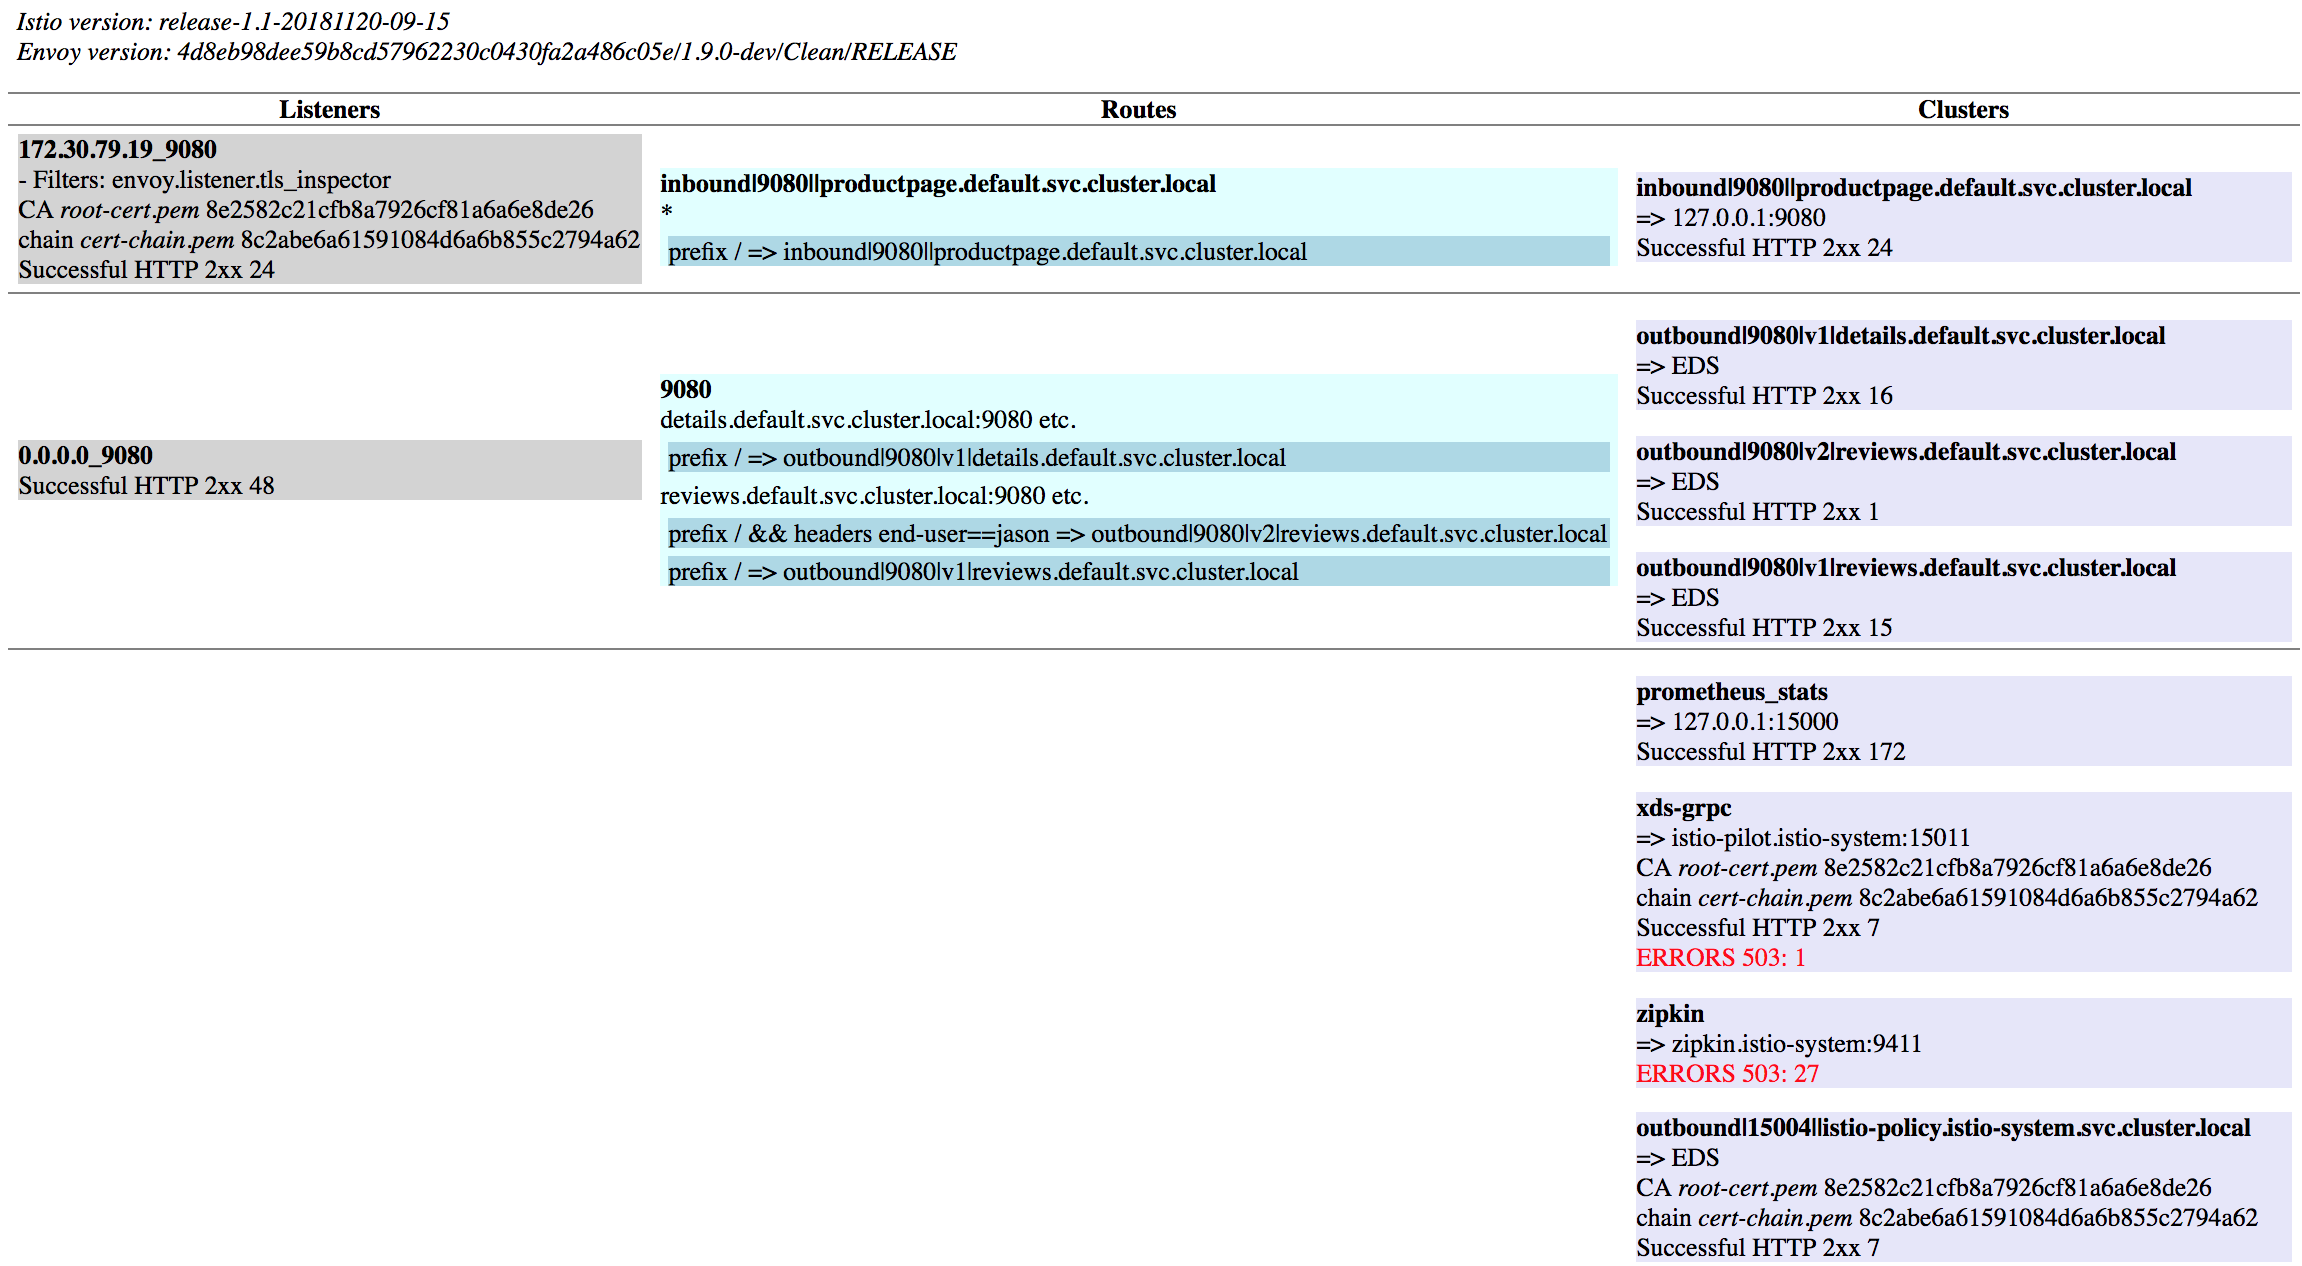
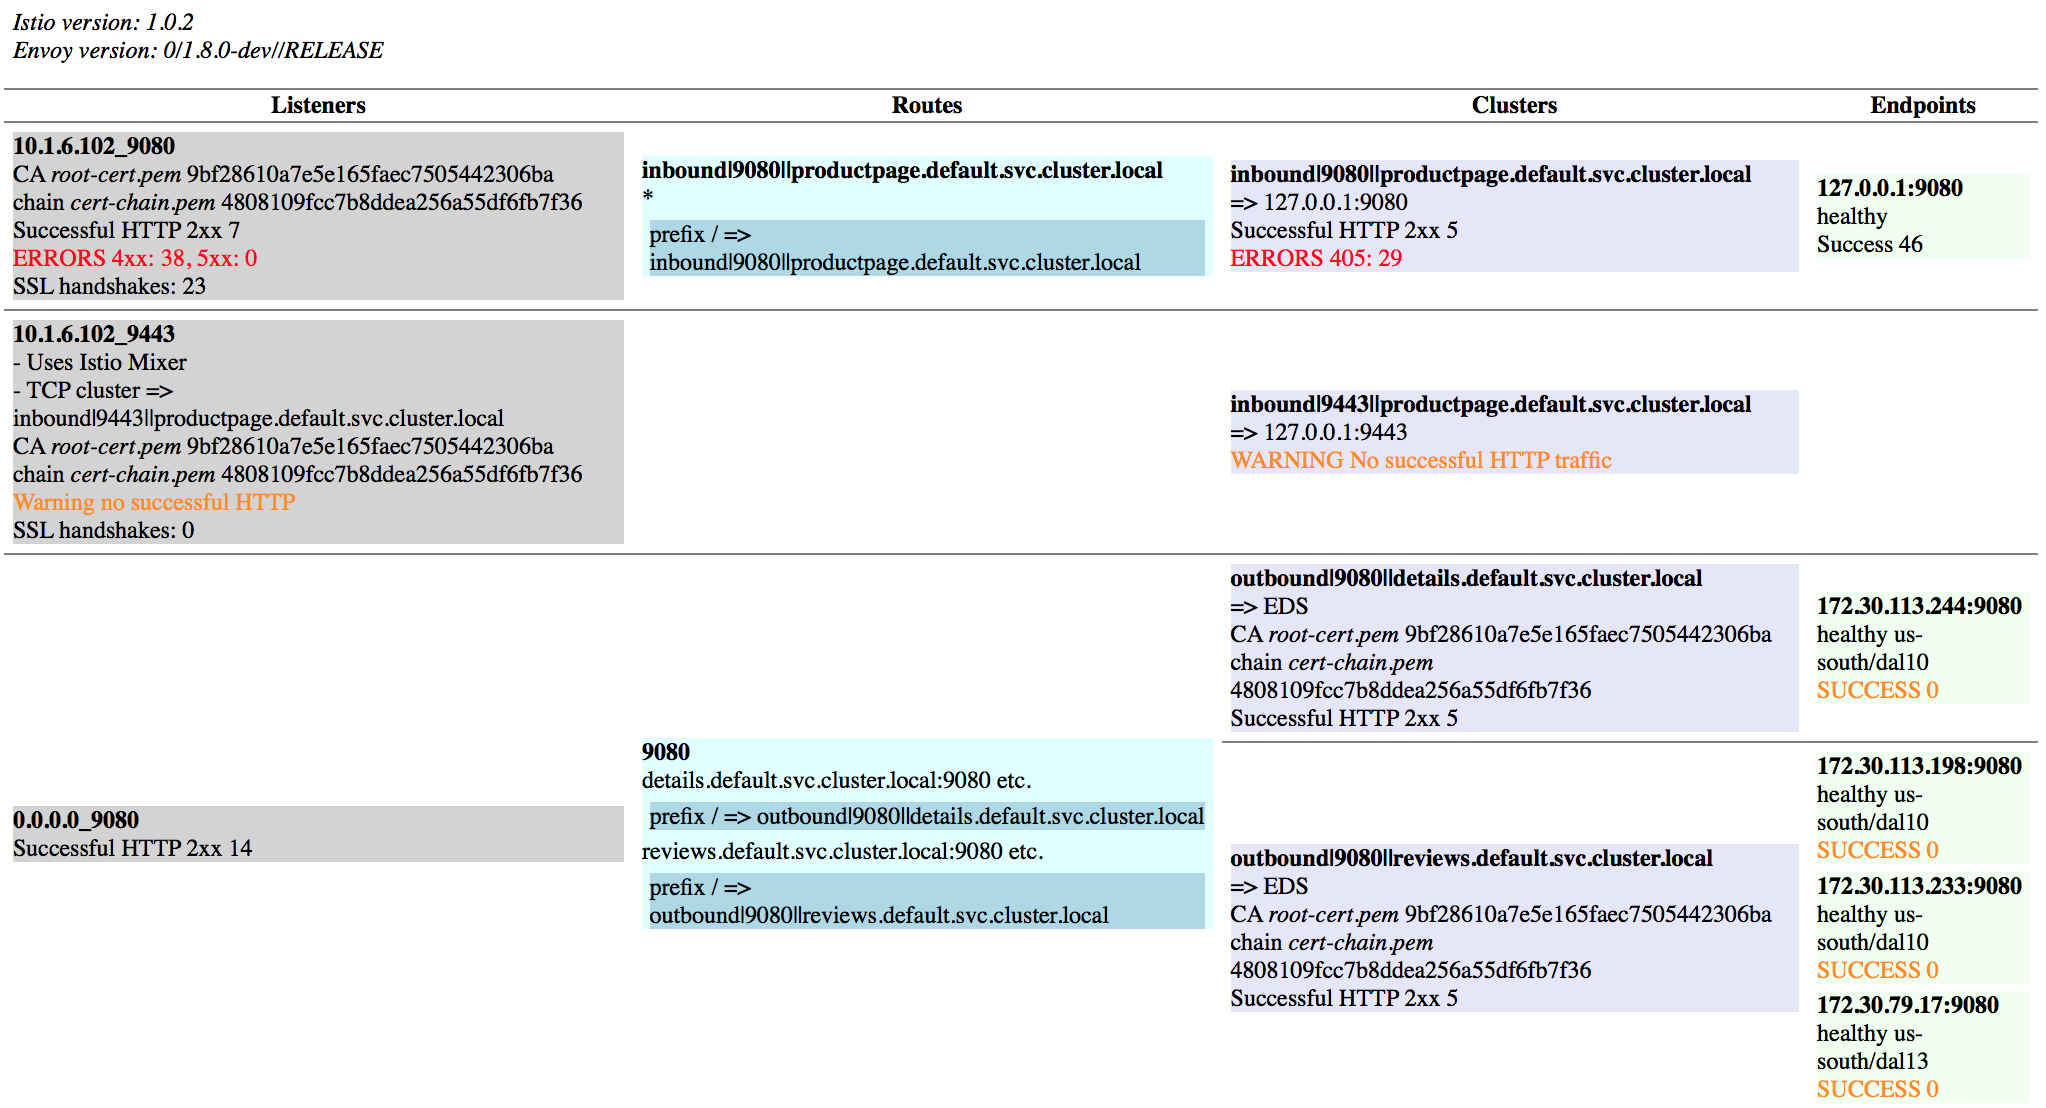
tree-like table formatting

diff --git a/genhtml.js b/genhtml.js
@@ -244,7 +244,8 @@ function clusterHasTraffic(cluster, stats, outMsgs) {
 		|| clusterStats.upstream_rq_3xx > 0
 		|| clusterStats.upstream_rq_4xx > 0
 		|| clusterStats.upstream_rq_5xx > 0
-		|| clusterStats.upstream_cx_connect_fail > 0;
+		|| clusterStats.upstream_cx_connect_fail > 0
+		|| clusterStats.upstream_cx_total > 0;
 }
 
 function statPrefixHttp(listener) {
@@ -528,6 +529,10 @@ function htmlCluster(cluster, stats, certs) {
 		}
 	}
 
+	if (!(cluster.name in stats.cluster)) {
+		// e.g. "outbound|15443||non.existent.cluster"
+		stats.cluster[cluster.name] = {};
+	}
 	if (stats.cluster[cluster.name].upstream_rq_2xx > 0) {
 		console.log("  Successful HTTP 2xx " + stats.cluster[cluster.name].upstream_rq_2xx + "<br>");
 	} else if (cluster.name.startsWith('inbound|')) {
@@ -548,7 +553,7 @@ function htmlCluster(cluster, stats, certs) {
 
 function htmlEndpoint(clusterName, endpointName, endpoint) {
 	console.log("<div class='endpoint'>");
-	console.log(clusterName + " <b>" + endpointName + "</b><br>");
+	console.log("<b>" + endpointName + "</b><br>");
 	console.log(endpoint.health_flags + " " + endpoint.zone + "<br>");
 	if (endpoint.rq_timeout > 0) {
 		console.log("<span class='problem'>TIMEOUT " + endpoint.rq_timeout + "</span><br>");
@@ -705,6 +710,7 @@ function showListenerp(listener, stats) {
 	return listenerHasTraffic(listener, stats) || inboundListener(listener);
 }
 
+// referencedRoutes() returns an array of route names
 function referencedRoutes(listener) {
 	var retval = [];
 
@@ -732,6 +738,7 @@ function referencedRoutes(listener) {
 	return retval;
 }
 
+// listenerReferencedClusters() returns a list of cluster names that don't go through routes.
 function listenerReferencedClusters(listener) {
 	var retval = [];
 
@@ -761,6 +768,167 @@ function routeReferencedClustersWithTraffic(routeConfig, stats, outMsgs) {
 	return retval;
 }
 
+function referencedListeners(configDump, stats) {
+	var visibleListeners = [];
+	for (var listener of allListeners(configDump)) {
+		if (!listener.name) {
+			if (listener.address && listener.address.socket_address) {
+				// Hack; give name to anonymous listeners (as seen on the Egress) TODO fix
+				listener.name = "Anonymous " + listener.address.socket_address.address + "_" + listener.address.socket_address.port_value;
+			}
+		}
+		if (showListenerp(listener, stats)) {
+			visibleListeners.push(listener);
+		}
+	}
+	return visibleListeners;
+}
+
+// Mutate data structure linking listener, route, and clusters directly
+function linkListeners(configDump, stats, allClusters, outMsgs) {
+	var allRoutes = routesByName(configDump);
+
+	var listeners = referencedListeners(configDump, stats);
+	var clustersShown = [];
+	for (var listener of listeners) {
+		listener.clusterLinks = listenerReferencedClusters(listener);
+		for (var clusterName of listener.clusterLinks) {
+			var cluster = allClusters[clusterName];
+			if (!cluster) {
+				// e.g. "outbound|15443||non.existent.cluster"
+				cluster = {name: clusterName, type: ""};
+				allClusters[clusterName] = cluster
+			}
+			if (cluster.listenerLink) throw "Internal error; more than one listener for " + cluster.name;
+			cluster.listenerLink = listener;
+		}
+		var routes = referencedRoutes(listener);
+		for (var routeName of routes) {
+			var route = allRoutes[routeName];
+			if (route) {
+				route.listenerLink = listener;
+				route.clusterLinks = [];
+				var clusters = routeReferencedClustersWithTraffic(route, stats, outMsgs);
+				for (var clusterName of clusters) {
+					clustersShown.push(clusterName);
+					var cluster = allClusters[clusterName];
+					if (cluster.routeLink && !(cluster.routeLink === route)) throw "Internal error; more than one route for " + cluster.name + "; new route is " + route.name + " old route was " + cluster.routeLink.name;
+					cluster.routeLink = route;
+					if (cluster.listenerLink && !(cluster.listenerLink == listener)) throw "Internal error; more than one listener for " + cluster.name;
+					cluster.listenerLink = listener;
+					route.clusterLinks = route.clusterLinks.concat(cluster);
+					listener.clusterLinks = listener.clusterLinks.concat(cluster);
+				}
+			} else {
+				console.log("internal error: no cluster for " + routeName);
+			}
+		}
+	}
+
+	// Now create fake "head" listener for clusters that do not have a real one
+	var fakeListener = {name: "", clusterLinks: [], filter_chains: []};
+	var fakeRoute = {name: "", clusterLinks: []};
+	for (var clusterName of Object.keys(allClusters)) {
+		if (clustersShown.indexOf(clusterName) < 0 && clusterHasTraffic(clusterName, stats, outMsgs)) {
+			var cluster = allClusters[clusterName];
+			clustersShown.push(clusterName);
+			cluster.listenerLink = fakeListener;
+			cluster.routeLink = fakeRoute;
+			fakeListener.clusterLinks.push(cluster);
+			fakeRoute.clusterLinks.push(cluster)
+		}
+	}
+
+	if (fakeListener.clusterLinks.length) {
+		listeners.push(fakeListener);
+	}
+
+	return listeners;
+}
+
+function genTable(configDump, stats, certs, clusterDefs, outMsgs) {
+	console.log("<p><table border=1 frame=hsides rules=rows>")
+	console.log("<tr><th align='center'>Listeners</th><th align='center'>Routes</th><th align='center'>Clusters</th><th align='center'>Endpoints</th></tr>");
+
+	var allClusters = clustersByName(configDump);
+	var listenerTree = linkListeners(configDump, stats, allClusters, outMsgs);
+
+	// Filter for clusters that were linked
+	var visibleClusters = Object.keys(allClusters).filter(function(clusterName) { return allClusters[clusterName].listenerLink; });
+	visibleClusters.sort(function(aName, bName) {
+		var a = allClusters[aName], b = allClusters[bName];
+
+		// inbound first, listener name second, route name third, cluster name fourth
+		if (inboundListener(a.listenerLink) != inboundListener(b.listenerLink)) {
+			return inboundListener(a.listenerLink) ? -1 : 1;
+		}
+		if (a.listenerLink.name != b.listenerLink.name) {
+			if (a.listenerLink.name == "") { return 1; } // sort blank to bottom
+			if (b.listenerLink.name == "") { return -1; } // sort blank to bottom
+		    return (a.listenerLink.name < b.listenerLink.name) ? -1 : 1;
+		}
+		if (a.routeLink && b.routeLink && a.routeLink.name != b.routeLink.name) {
+		    return (a.routeLink.name < b.routeLink.name) ? -1 : 1;
+		}
+		if (a.name != b.name) {
+		    return (a.name < b.name) ? -1 : 1;
+		}
+		return 0;
+	});
+
+	var inboundListeners = 0;
+	var listenersWithTraffic = 0;
+	var prevListenerName="##DUMMY", prevRouteName="##DUMMY";
+	for (var clusterName of visibleClusters) {
+		var cluster = allClusters[clusterName];
+
+		console.log('<tr>');
+
+		if (prevListenerName != cluster.listenerLink.name) {
+			console.log('<td valign="middle" rowspan="' + cluster.listenerLink.clusterLinks.length + '">');
+			if (cluster.listenerLink.name) {
+				htmlListener(cluster.listenerLink, stats, certs);
+				if (listenerHasTraffic(cluster.listenerLink, stats)) {
+					listenersWithTraffic++;
+				}
+				if (inboundListener(cluster.listenerLink)) {
+					inboundListeners++;
+				}
+			}
+			console.log('</td>');
+			prevListenerName = cluster.listenerLink.name;
+		}
+
+		if (cluster.routeLink) {
+			if (prevRouteName != cluster.routeLink.name) {
+				console.log('<td valign="middle" rowspan="' + cluster.routeLink.clusterLinks.length + '">');
+				htmlRoute(cluster.routeLink, stats, allClusters, outMsgs);
+				console.log('</td>');
+				prevRouteName = cluster.routeLink.name;
+			}
+		} else {
+			console.log('<td></td>');
+		}
+
+
+		console.log('<td valign="middle">');
+		htmlCluster(cluster, stats, certs);
+		console.log('</td>');
+
+		console.log('<td valign="middle">');
+		htmlClusterDef(clusterName, clusterDefs[clusterName], outMsgs);
+		console.log('</td>');
+		console.log("</tr>");
+	}
+
+	console.log("</table>")
+
+	if (listenersWithTraffic == 0) {
+		outMsgs.push("<p><span class='warning'>WARNING: No traffic</span><br>");
+	}
+}
+
+
 function genHtml(configDump, stats, certs, clusterDefs) {
 	console.log("<!DOCTYPE html>");
 	console.log("<html>");
@@ -770,125 +938,16 @@ function genHtml(configDump, stats, certs, clusterDefs) {
 	console.log("</head>");
 	console.log("<body>");
 
-	var outMsgs = [];
 	htmlBootstrap(configDump.configs.bootstrap);
 
-	console.log("<p><table border=1 frame=hsides rules=rows>")
-	console.log("<tr><th align='center'>Listeners</th><th align='center'>Routes</th><th align='center'>Clusters</th><th align='center'>Endpoints</th></tr>");
-
-	// Listeners we will show on the screen
-	var listenerRows = {};
-	var visibleListeners = [];
-	for (var listener of allListeners(configDump)) {
-		if (!listener.name) {
-			if (listener.address && listener.address.socket_address) {
-				// Hack; give name to anonymous listeners (as seen on the Egress) TODO fix
-				listener.name = listener.address.socket_address.address + "_" + listener.address.socket_address.port_value;
-			}
-		}
-		if (showListenerp(listener, stats)) {
-			listenerRows[listener.name] = visibleListeners.length;
-			visibleListeners.push(listener);
-		}
-	}
-
-	var listenersWithTraffic = 0;
-	var inboundListeners = 0;
-	// var referencedRoutes = [];
-	// var referencedClusters = [];
-	var allRoutes = routesByName(configDump);
-	var allClusters = clustersByName(configDump);
-	var clustersShown = [];
-
-	for (var listener of visibleListeners) {
-
-		console.log('<tr><td valign="middle">');
-		htmlListener(listener, stats, certs);
-		if (listenerHasTraffic(listener, stats)) {
-			listenersWithTraffic++;
-		}
-		if (inboundListener(listener)) {
-			inboundListeners++;
-		}
-
-		console.log('</td><td valign="middle">');
-
-		var routes = referencedRoutes(listener);
-		for (var routeName of routes) {
-			var route = allRoutes[routeName];
-			console.log("<p>");
-			if (route) {
-				htmlRoute(route, stats, allClusters, outMsgs);
-			} else {
-				console.log("internal error: no route for " + routeName);
-			}
-		}
-
-		console.log('</td><td valign="middle">');
-
-		var clusters = listenerReferencedClusters(listener);
-		for (var routeName of routes) {
-			var route = allRoutes[routeName];
-			if (route) {
-				clusters = clusters.concat(routeReferencedClustersWithTraffic(route, stats, outMsgs));
-			} else {
-				console.log("internal error: no cluster for " + routeName);
-			}
-		}
-		clusters = Array.from(new Set(clusters));
-
-		for (var clusterName of clusters) {
-			var cluster = allClusters[clusterName];
-			console.log("<p>");
-			if (cluster) {
-				htmlCluster(cluster, stats, certs);
-				clustersShown.push(clusterName);
-			} else {
-				console.log("internal error: cannot find " + clusterName + " in allClusters");
-			}
-		}
-
-		console.log('</td><td valign="middle">');
-		for (var clusterName of clusters) {
-			htmlClusterDef(clusterName, clusterDefs[clusterName], outMsgs);
-		}
-		console.log("</td></tr>");
-	}
-
-	// Now show the clusters that aren't attached to a listener
-	console.log('<tr><td valign="middle">');
-	console.log('</td><td valign="middle">');
-	console.log('</td><td valign="middle">');
-
-	clusters = [];
-	for (var clusterName of Object.keys(allClusters)) {
-		if (clustersShown.indexOf(clusterName) < 0 && clusterHasTraffic(clusterName, stats)) {
-			var cluster = allClusters[clusterName];
-			console.log("<p>");
-			htmlCluster(cluster, stats, certs);
-			clustersShown.push(clusterName);
-			clusters.push(clusterName);
-		}
-	}
-
-	console.log('</td><td valign="middle">');
-	for (var clusterName of clusters) {
-		htmlClusterDef(clusterName, clusterDefs[clusterName], outMsgs);
-	}
-
-	console.log("</td></tr>");
-
-	console.log("</table>")
-
+	var outMsgs = [];
+	genTable(configDump, stats, certs, clusterDefs, outMsgs);
+	
 	// Uniquify
 	outMsgs = outMsgs.filter(function(val, i, self) { return self.indexOf(val) === i; });
 
 	for (var outMsg of outMsgs) {
 		console.log(outMsg);
-	}
-
-	if (listenersWithTraffic == 0) {
-		console.log("<p><span class='warning'>WARNING: No traffic</span>");
 	}
 
 	console.log("</body>");
